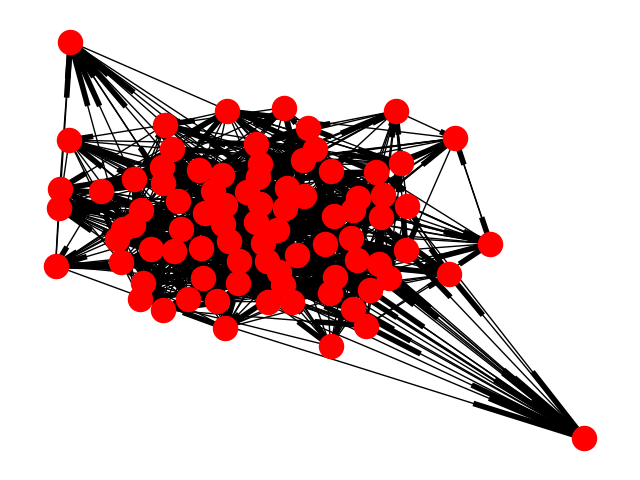
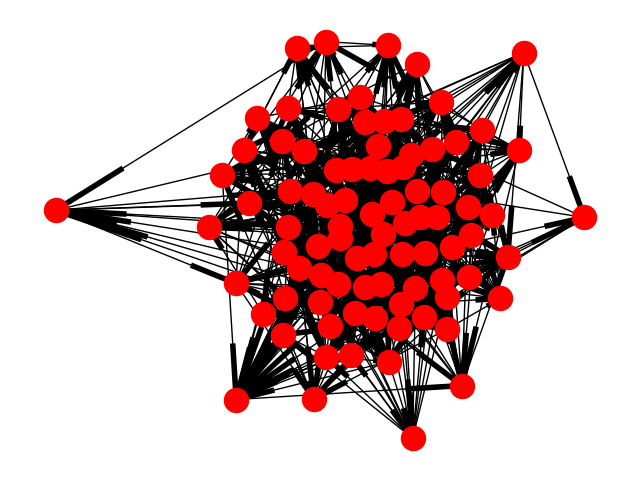
Updating with new tables, need to figure out how to model from stream api too

diff --git a/stream_demo.py b/stream_demo.py
@@ -7,6 +7,11 @@ import argparse
 import json
 import random
 from datetime import datetime
+from datetime import datetime as dt
+from datetime import timedelta
+
+# typing
+from typing import Dict, List, Any
 
 # third party
 import names  # http://treyhunner.com/2013/02/random-name-generator/
@@ -21,13 +26,18 @@ import scipy as sp
 import matplotlib.pyplot as plt
 
 
+# GLOBALS ##########################################################################################
+# tweak this to generate more or less data (keep as int)
+SIZE_MULTIPLIER: int = 10
+
+
 # First make sure our secret file exists
 assert os.path.isfile('./config.json'), 'Please provide a config.json'
 # Load in API info
 #     * key
 #     * secret
 with open('./config.json', 'r') as fobj:
-    API = json.loads(fobj.read())
+    API: Dict[str, str] = json.loads(fobj.read())
 # Now make sure it provides the correct information
 assert API['key'] is not None, 'Need an API key'
 assert API['secret'] is not None, 'Need an API secret'
@@ -36,7 +46,7 @@ assert API['secret'] is not None, 'Need an API secret'
 # Going to need a global db instance for this
 db = orm.Database()
 
-
+# CODE #############################################################################################
 def main():
     args = get_args()
 
@@ -45,15 +55,15 @@ def main():
 
     client = stream.connect(API['key'], API['secret'])
 
-    users = setup_data()
+    users: Dict[str, List[str]] = setup_data()
     generate_events(users)
 
 
 @orm.db_session
-def setup_data():
+def setup_data() -> Dict[str, List[str]]:
     # First let's generate a bunch of random users,
     # store as edge dictionary to make friendships easier
-    users = {names.get_first_name(): list() for _ in range(100)}
+    users = {names.get_first_name(): list() for _ in range(1 * SIZE_MULTIPLIER)}
 
     # for each user friend a random number of friends between 2 and 10
     # this is kinda sloppy since random.choices only has replacement,
@@ -62,7 +72,7 @@ def setup_data():
     for user in users:
         # we don't want them to try to friend themselves....
         possible_friends = list(set(users.keys()) - set([user]))
-        num_friends      = random.randint(5, 15)
+        num_friends      = random.randint(1, SIZE_MULTIPLIER)
         friends          = list(set(random.choices(possible_friends,
                                                    k=num_friends)))
         users[user]      = friends
@@ -99,16 +109,24 @@ def draw_connections(users):
 
     # this is gonna look real messy cause there are sooo many connections...
     # GOOD
-    nx.draw(social_graph)
-    plt.savefig('nasty_mess_of_friends.png')
+    # only wanna draw once
+    # nx.draw(social_graph)
+    # plt.savefig('nasty_mess_of_friends.png')
 
 
 @orm.db_session
-def generate_posts(users):
-    # Lets generate somewhere between 50 and 100 posts per user
+def generate_posts(users: Dict[str, List[str]]):
+    # Lets generate somewhere between 50 and 100 posts per user over a week
+    week_seconds: int = 604800  # https://www.wolframalpha.com/input/?i=1+week+to+seconds
     for user in users:
-        for _ in range(random.randint(50, 100)):
-            pass
+        user = User.select(lambda x: x.name == user).first()
+        for _ in range(random.randint(5 * SIZE_MULTIPLIER, 10 * SIZE_MULTIPLIER)):
+            Post(
+                name=str(loremipsum.generate_sentences(1)),
+                text=str(loremipsum.generate_paragraphs(random.randint(1, 10))),
+                date_posted=(dt.now() + timedelta(seconds=(random.random() * week_seconds))),
+                user=user
+            )
 
 
 @orm.db_session
@@ -126,7 +144,7 @@ def get_args():
     return parser.parse_args()
 
 
-# Declaring db schema down here ####################################################################
+# DATABASE SCHEMA ##################################################################################
 class User(db.Entity):
     name             = orm.Required(str)
     friends          = orm.Set(lambda: User)
@@ -143,6 +161,13 @@ class Post(db.Entity):
     user             = orm.Required(lambda: User)
     user_likes       = orm.Set(lambda: User)
     user_impressions = orm.Set(lambda: User)
+
+
+class Event(db.Entity):
+    """ Basically modelling off of stream API """
+    actor = orm.Required(lambda: User)
+    verb  = orm.Required(str)
+    obj   = orm.Required(lambda: Post)
 
 
 if __name__ == '__main__':
